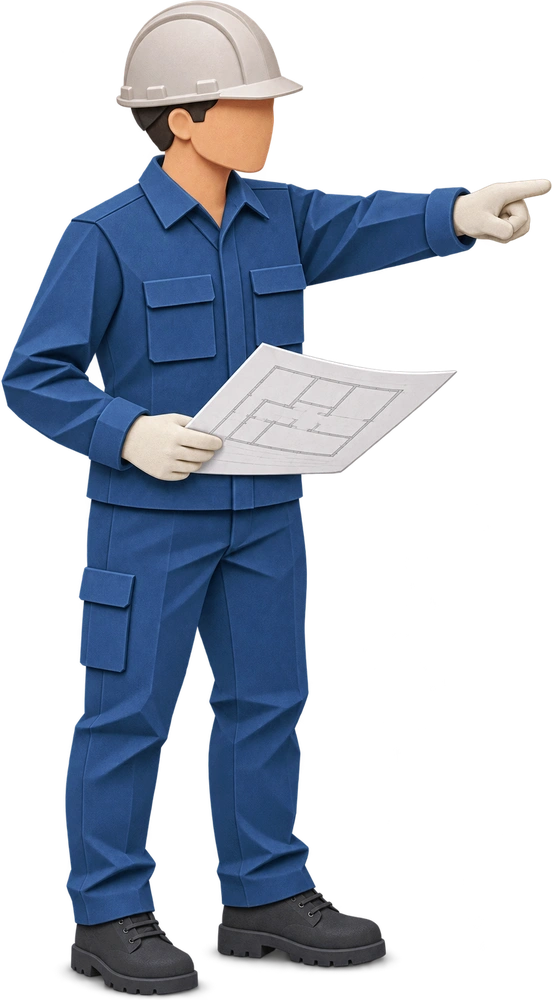
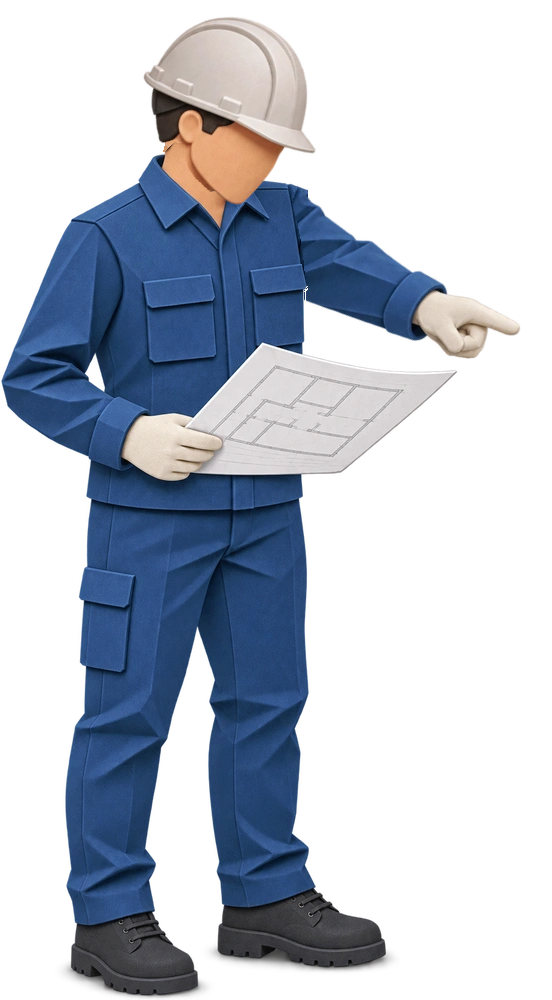
asfd

Changed region(s): [[0.5236, 0.155, 1.0, 0.372], [0.2156, 0.0, 0.5851, 0.217]]

diff --git a/js/hex.js b/js/hex.js
@@ -581,6 +581,7 @@ const HEX_IS_PRODUCTION=HEX_HOSTS.PRODUCTION.indexOf(location.hostname)!==-1;
     var url=new URL(file,imageRoot);
     if(/^sakan1\.webp(?=[?#]|$)/i.test(file))url.searchParams.set('v','20261127-arm-frames-2');
     if(/^block1\.webp(?=[?#]|$)/i.test(file))url.searchParams.set('v','20261127-hammer-frames');
+    if(/^supervisor1\.webp(?=[?#]|$)/i.test(file))url.searchParams.set('v','20261127-pointing-frames');
     if(sceneAsset.test(file)){
       var version=/^(?:drawing|tree|underplant)/i.test(file)?'20261118-cropped':'20261118-restored';
       url.searchParams.set('v',version);
@@ -596,7 +597,7 @@ const HEX_IS_PRODUCTION=HEX_HOSTS.PRODUCTION.indexOf(location.hostname)!==-1;
         var current=image.getAttribute('src')||'';
         if(current.indexOf(imageRoot)===0){
           var filename=current.slice(imageRoot.length);
-          url=/^(?:(?:aluminum|pruning|sakan|block|supervisor)\.(?:png|webp)|(?:sakan|block)1\.webp)(?=[?#]|$)/i.test(filename)
+          url=/^(?:(?:aluminum|pruning|sakan|block|supervisor)\.(?:png|webp)|(?:sakan|block|supervisor)1\.webp)(?=[?#]|$)/i.test(filename)
             ?resolve(filename):current;
         }
       }
